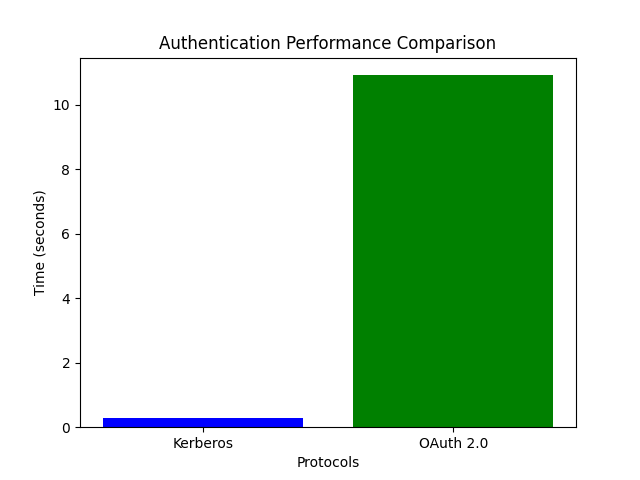
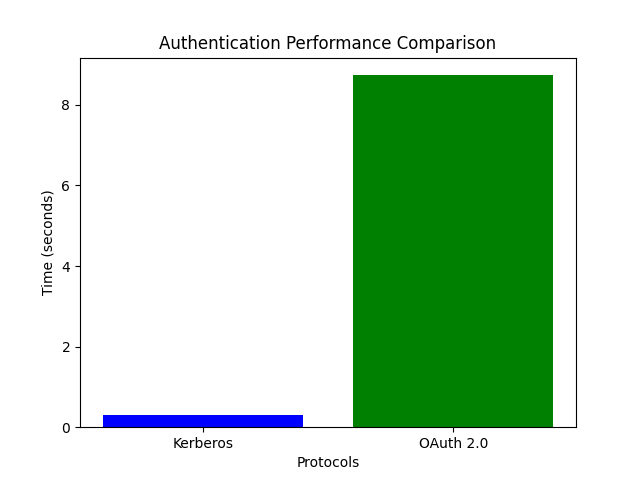
test results

Changed region(s): [[0.0312, 0.3438, 0.125, 0.625], [0.1562, 0.8438, 0.4688, 0.875], [0.0938, 0.7188, 0.125, 0.7812]]

diff --git a/results/report.md b/results/report.md
@@ -1,9 +1,11 @@
 
 # Cryptographic and Authentication Protocol Comparison
+# Test Environment: Intel i7-9750H CPU @ 2.60GHz, 16GB RAM
+# Network: Local test environment, 1Gbps connection.
 
 ## Results
-- **Kerberos Authentication Time**: 0.2970407009124756 seconds
-- **OAuth 2.0 Authentication Time**: 10.908627271652222 seconds
+- **Kerberos Authentication Time**: 0.31250810623168945 seconds
+- **OAuth 2.0 Authentication Time**: 8.734806299209595 seconds
 
 ## User Info from OAuth
 {'login': 'aliabbascheema', 'id': 183813765, 'node_id': 'U_kgDOCvTGhQ', 'avatar_url': 'https://avatars.githubusercontent.com/u/183813765?v=4', 'gravatar_id': '', 'url': 'https://api.github.com/users/aliabbascheema', 'html_url': 'https://github.com/aliabbascheema', 'followers_url': 'https://api.github.com/users/aliabbascheema/followers', 'following_url': 'https://api.github.com/users/aliabbascheema/following{/other_user}', 'gists_url': 'https://api.github.com/users/aliabbascheema/gists{/gist_id}', 'starred_url': 'https://api.github.com/users/aliabbascheema/starred{/owner}{/repo}', 'subscriptions_url': 'https://api.github.com/users/aliabbascheema/subscriptions', 'organizations_url': 'https://api.github.com/users/aliabbascheema/orgs', 'repos_url': 'https://api.github.com/users/aliabbascheema/repos', 'events_url': 'https://api.github.com/users/aliabbascheema/events{/privacy}', 'received_events_url': 'https://api.github.com/users/aliabbascheema/received_events', 'type': 'User', 'user_view_type': 'public', 'site_admin': False, 'name': None, 'company': None, 'blog': '', 'location': None, 'email': None, 'hireable': None, 'bio': None, 'twitter_username': None, 'notification_email': None, 'public_repos': 4, 'public_gists': 0, 'followers': 0, 'following': 1, 'created_at': '2024-10-04T09:29:15Z', 'updated_at': '2024-12-05T05:26:22Z'}
